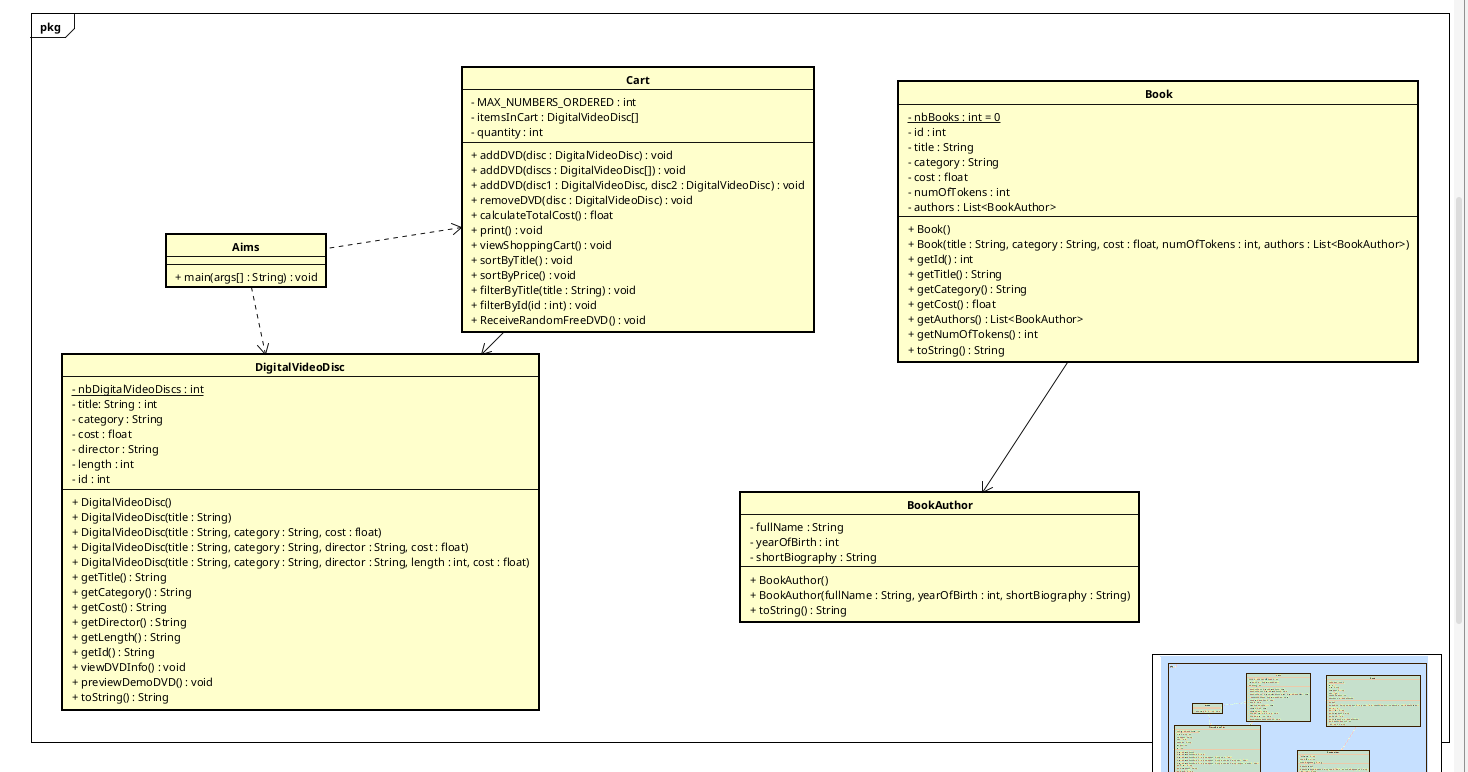
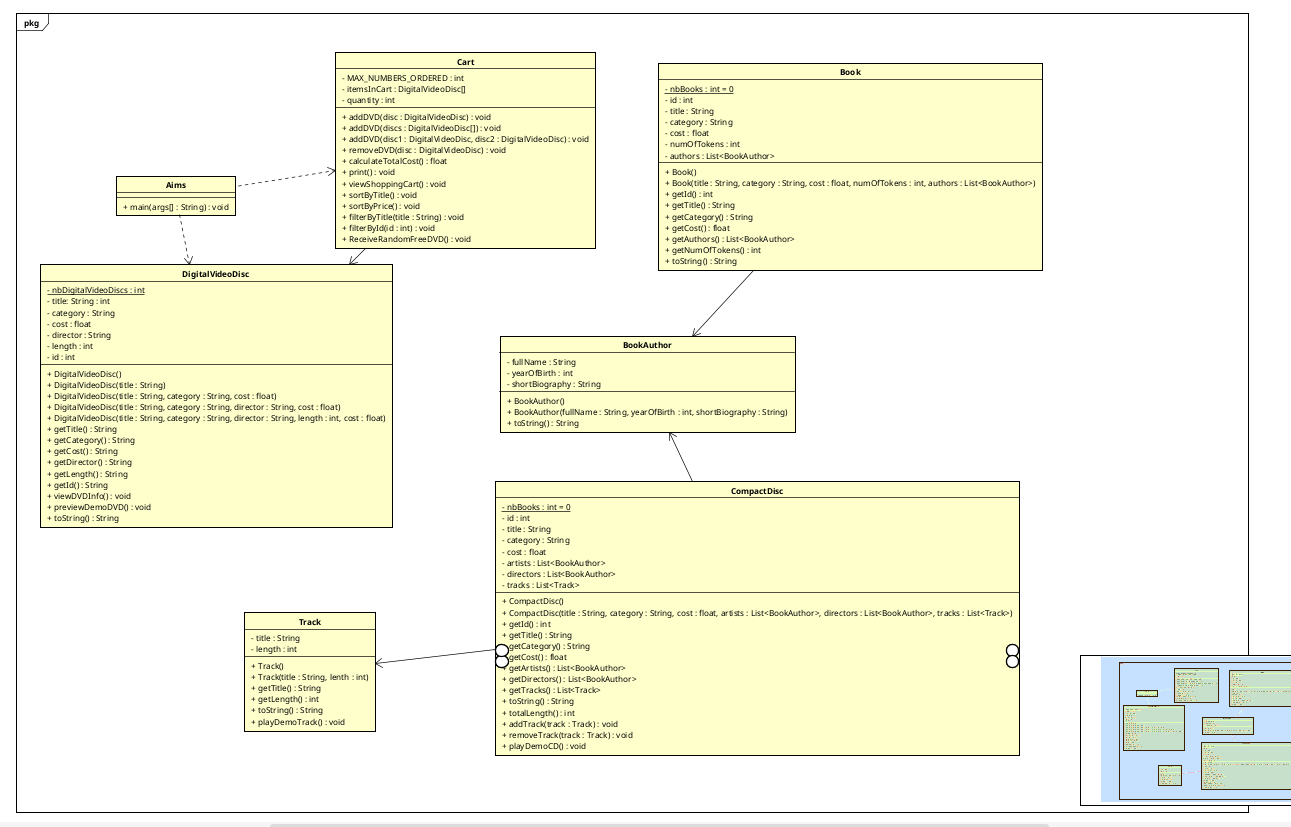
Create CompactDisc and CompactDiscTest class

diff --git a/AimsProject/src/com/hust/kstn/models/CompactDisc.java b/AimsProject/src/com/hust/kstn/models/CompactDisc.java
@@ -1,0 +1,96 @@
+package com.hust.kstn.models;
+
+import java.util.ArrayList;
+import java.util.List;
+
+public class CompactDisc {
+    // attributes
+    private static int nbBooks = 0;
+    private int id;
+    private String title;
+    private String category;
+    private float cost;
+    private List<BookAuthor> artists = new ArrayList<>();
+    private List<BookAuthor> directors = new ArrayList<>();
+    private List<Track> tracks = new ArrayList<>();
+
+    // constructors
+    public CompactDisc() {
+        nbBooks++;
+        this.id = nbBooks;
+    }
+
+    public CompactDisc(String title, String category, float cost, List<BookAuthor> artists, List<BookAuthor> directors, List<Track> tracks) {
+        nbBooks++;
+        this.id = nbBooks;
+        this.title = title;
+        this.category = category;
+        this.cost = cost;
+        this.artists = artists;
+        this.directors = directors;
+        this.tracks = tracks;
+    }
+
+
+    //methods
+    public int getId() {
+        return this.id;
+    }
+
+    public String getTitle() {
+        return this.title;
+    }
+
+    public String getCategory() {
+        return this.category;
+    }
+
+    public float getCost() {
+        return this.cost;
+    }
+
+    public List<BookAuthor> getArtists() {
+        return this.artists;
+    }
+
+    public List<BookAuthor> getDirectors() {
+        return this.directors;
+    }
+
+    public List<Track> getTracks() {
+        return this.tracks;
+    }
+
+
+    @Override
+    public String toString() {
+        return "CompactDisc[" + this.id + "]["
+                        + this.title + "]["
+                        + this.cost + "]["
+                        + this.category + "]"
+                        + "\nArtists: " + this.artists
+                        + "\nDirectors: " + this.directors
+                        + "\nTrack: " + this.tracks;
+    }
+
+    public int totalLength() {
+        int sum  = 0;
+        for(Track temp : tracks) sum += temp.getLength();
+        return sum;
+    }
+
+    public void addTrack(Track track) {
+        this.tracks.add(track);
+    }
+
+    public void removeTrack(Track track) {
+        this.tracks.remove(track);
+    }
+
+    public void playDemoCD() {
+        System.out.println("Playing CD: " + this.title);
+        System.out.println("Total length: " + this.totalLength() + " seconds");
+        for(Track temp : this.tracks) temp.playDemoTrack();
+        System.out.println("");
+    }
+}

diff --git a/AimsProject/src/com/hust/kstn/test/CompactDiscTest.java b/AimsProject/src/com/hust/kstn/test/CompactDiscTest.java
@@ -6,7 +6,7 @@ import java.util.List;
 import com.hust.kstn.models.*;
 
 
-public class Test {
+public class CompactDiscTest {
     public static void main(String[] args) {
         BookAuthor artist1 = new BookAuthor("Taylor Swift", 1989, "American singer-songwriter");
         BookAuthor artist2 = new BookAuthor("Ariana Grande", 1993, "American pop star");
@@ -36,13 +36,16 @@ public class Test {
         System.out.println("=== CD INFORMATION ===");
         System.out.println(cd);
 
-        System.out.println("\n=== PLAY CD ===");
+        System.out.println("=== PLAY CD ===");
         cd.playDemoCD();
 
         Track newTrack = new Track("New Release", 200);
         cd.addTrack(newTrack);
 
         System.out.println("\nAfter adding new track:");
+        System.out.println("Total length: " + cd.totalLength());
+
+        cd.removeTrack(t2);
         System.out.println("Total length: " + cd.totalLength());
     }
 }

diff --git a/AimsProject/src/com/hust/kstn/models/Track.java b/AimsProject/src/com/hust/kstn/models/Track.java
@@ -1,0 +1,38 @@
+package com.hust.kstn.models;
+
+public class Track {
+    // attributes
+    private String title;
+    private int length;
+
+    // constructors
+    public Track() {
+        this.title = "None";
+        this.length = 100;
+    }
+
+    public Track(String title, int lenth) {
+        this.title = title;
+        this.length = lenth;
+    }
+
+    //methods
+    public String getTitle() {
+        return this.title;
+    }
+
+    public int getLength() {
+        return this.length;
+    }
+
+    @Override
+    public String toString() {
+        return "(" + this.title + ", " + this.length + ")";
+    }
+
+
+    public void playDemoTrack() {
+        if(this.length <= 0) System.out.println("Error, cannot play this track");
+        else System.out.println("Playing track: " + this.title + " (" + this.length + ")");
+    }
+}

diff --git a/AimsProject/src/com/hust/kstn/models/DigitalVideoDisc.java b/AimsProject/src/com/hust/kstn/models/DigitalVideoDisc.java
@@ -96,7 +96,11 @@ public class DigitalVideoDisc {
     }
 
     public void previewDemoDVD() {
-        // TODO
+        if(this.length <= 0) System.out.println("Error, cannot play this DVD");
+        else {
+            System.out.println("DVD title: " + this.title);
+            System.out.println("DVD length: " + this.length);
+        }
     }
 
 

diff --git a/AimsProject/src/com/hust/kstn/models/BookAuthor.java b/AimsProject/src/com/hust/kstn/models/BookAuthor.java
@@ -25,6 +25,6 @@ public class BookAuthor {
     public String toString() {
         return this.fullName + " ("
                 + this.yearOfBirth + ", "
-                + this.shortBiography + ")\n";
+                + this.shortBiography + ")";
     }
 }
